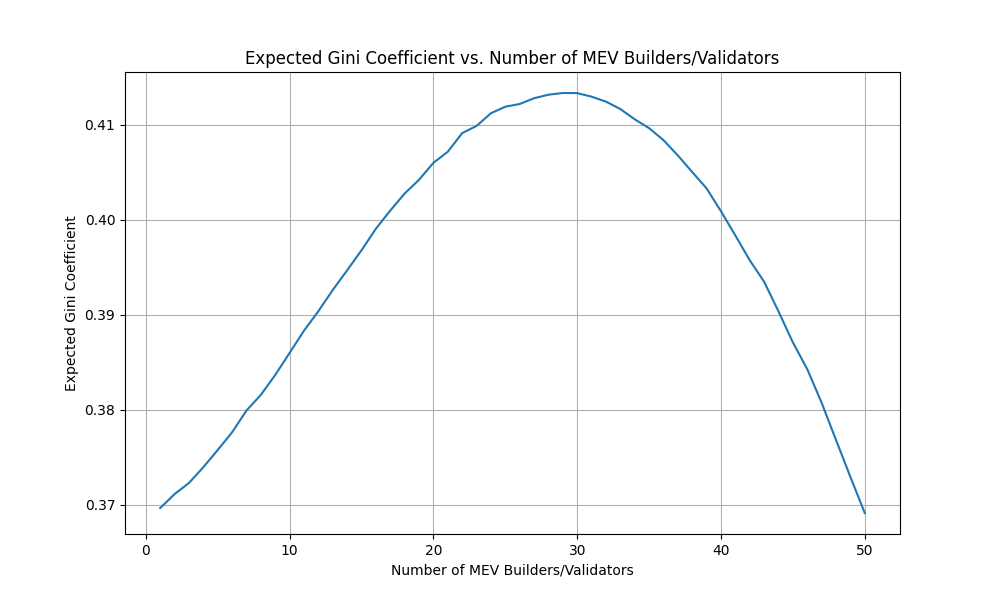
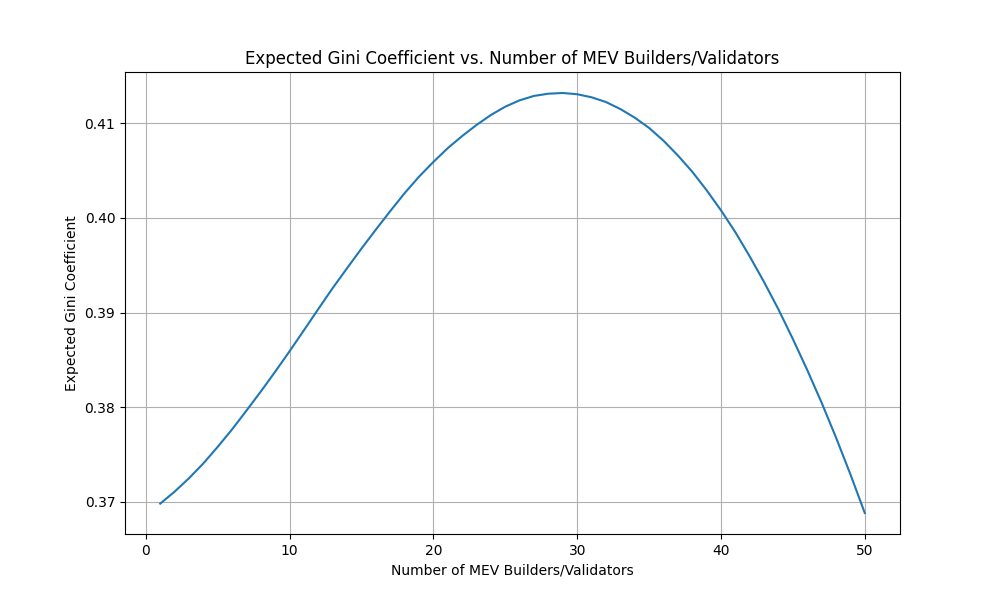
theory

diff --git a/plots/theory/gini.py b/plots/theory/gini.py
@@ -1,10 +1,11 @@
 import numpy as np
 import matplotlib.pyplot as plt
 from scipy.stats import norm
+from scipy.signal import savgol_filter
 import os
 
 # Ensure the output directory exists
-os.makedirs('figure', exist_ok=True)
+os.makedirs('figures/theory', exist_ok=True)
 
 # Function to calculate Gini coefficient
 def gini_coefficient(profits):
@@ -17,7 +18,7 @@ def gini_coefficient(profits):
 
 # Parameters
 num_builders = 50
-num_simulations = 1000
+num_simulations = 10000  # Increased number of simulations for smoother results
 mu_mev = 10
 sigma_mev = 2
 mu_gas = 5
@@ -40,9 +41,12 @@ for mev_builders in mev_builders_range:
         gini_coeffs.append(gini_coefficient(total_profits))
     gini_values.append(np.mean(gini_coeffs))
 
-# Plot Gini coefficient vs. number of MEV builders/validators
+# Apply Savitzky-Golay filter for smoothing
+gini_values_smooth = savgol_filter(gini_values, window_length=7, polyorder=2)
+
+# Plot smoothed Gini coefficient vs. number of MEV builders/validators
 plt.figure(figsize=(10, 6))
-plt.plot(mev_builders_range, gini_values)
+plt.plot(mev_builders_range, gini_values_smooth)
 plt.xlabel('Number of MEV Builders/Validators')
 plt.ylabel('Expected Gini Coefficient')
 plt.title('Expected Gini Coefficient vs. Number of MEV Builders/Validators')
